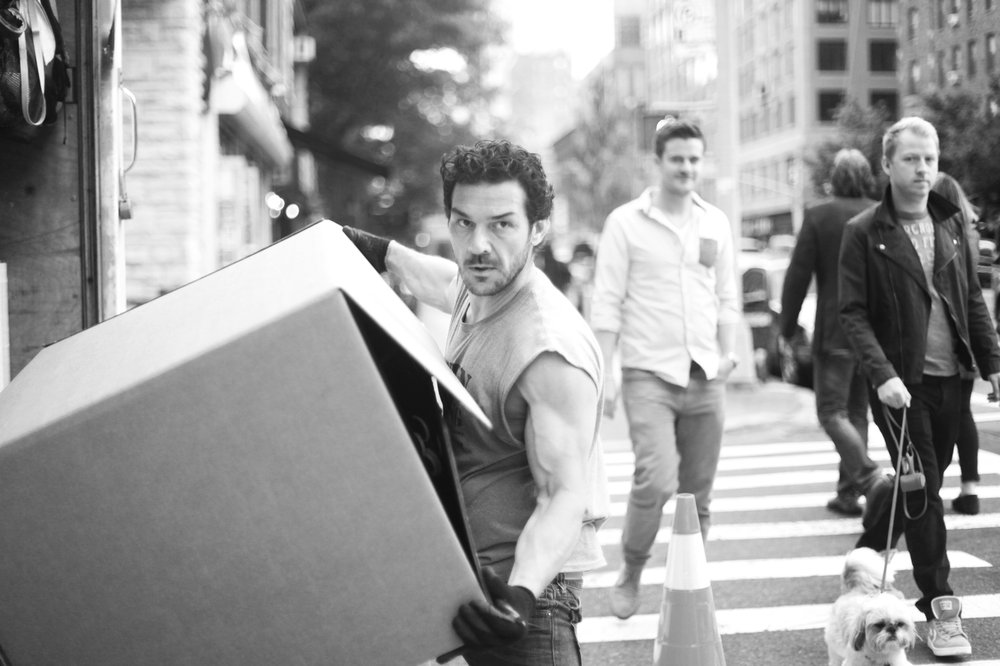
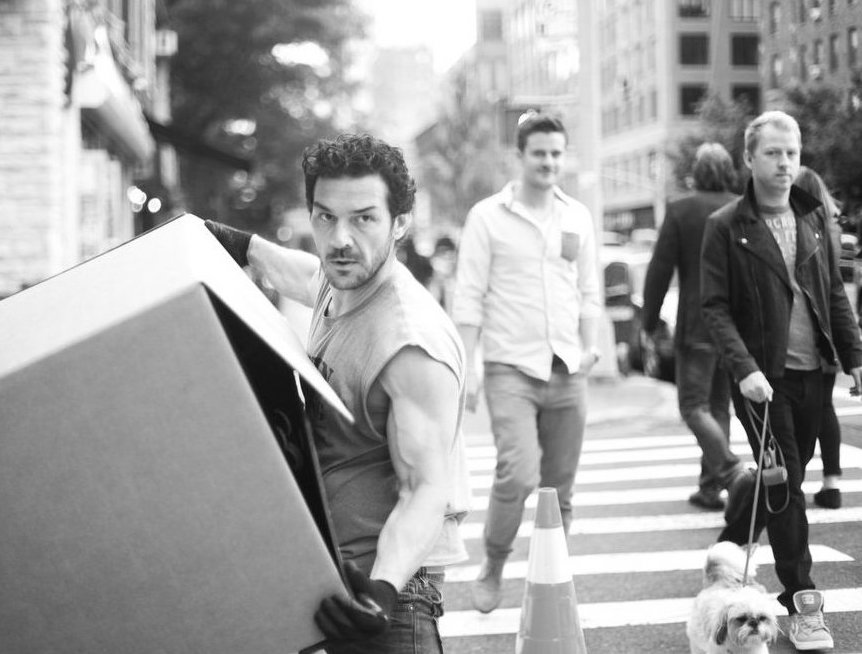
changing text on partner page

diff --git a/public/style.css b/public/style.css
@@ -203,7 +203,7 @@ img {
 #testimonials {
 	min-height: 100vh;
 	padding: 70px 0 0;
-	background-image: url("images/Noel1.jpg");
+	background-image: url("images/5.jpg");
 	background-attachment: fixed;
 	background-size: cover;
 	overflow: auto;
